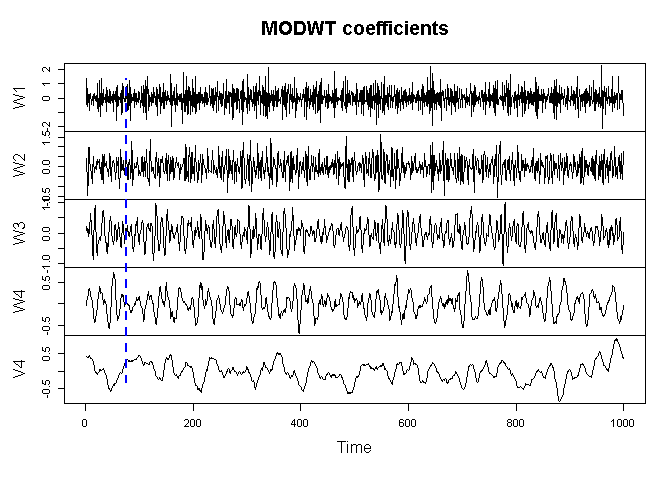
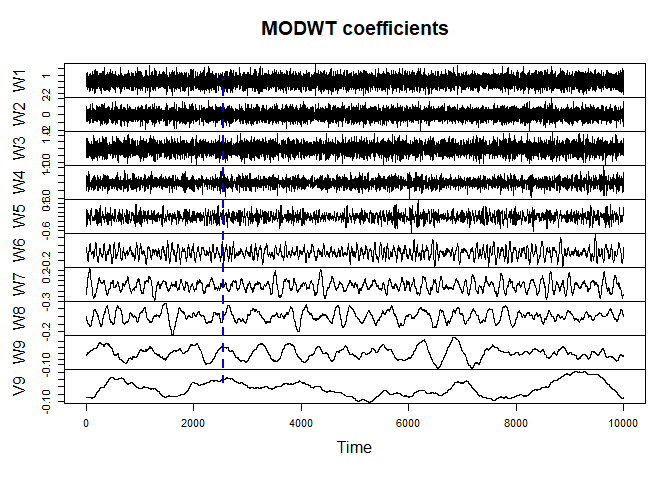
Update README

diff --git a/README.md b/README.md
@@ -36,13 +36,13 @@ library(fastWavelets)
 
 set.seed(839)                       # make this example reproducible
 
-N <- 1000                           # number of time series points
-J <- 4                              # decomposition level
-wavelet <- 'coif1'                  # scaling filter
+N <- 1e4                            # number of time series points
+J <- 9                              # decomposition level
+my.filter <- 'coif1'                # filter
 X <- matrix(rnorm(N),N,1)           # white noise
-modwt.X <- mo_dwt(X,wavelet,J)
+modwt.X <- mo_dwt(X,my.filter,J,remove_boundary_coefs=FALSE)
 colnames(modwt.X) <- c(paste0("W", 1:J), paste0("V", J))
-nbc <- n_boundary_coefs(wavelet, J) # number of boundary affected coefficients
+nbc <- n_boundary_coefs(my.filter, J) # number of boundary affected coefficients
 
 # Visualizations
 plot.ts(X, main = "White noise series", ylab="")
@@ -63,44 +63,35 @@ using the MODWT coefficients. It is often useful to view wavelet
 decomposition methods such as the MODWT as a “feature generation” or
 “feature engineering” method.
 
-## Available scaling filters
-
-For `atrous_dwt`, the set of possible values for the argument `wavelet`
-is as follows:
+Here’s how to remove the boundary coefficients:
 
 ``` r
-c("haar", "d1", "sym1", "bior1.1", "rbio1.1",
-"d2", "sym2", "d3", "sym3", "d4", "d5", "d6", "d7", "d8", "d9", "d10", "d11",
-"sym4", "sym5", "sym6", "sym7", "sym8", "sym9", "sym10",
-"coif1", "coif2", "coif3", "coif4", "coif5",
-"bior1.3", "bior1.5", "bior2.2", "bior2.4", "bior2.6", "bior2.8", "bior3.1", "bior3.3",
-"bior3.5", "bior3.7", "bior3.9", "bior4.4", "bior5.5", "bior6.8",
-"rbio1.3", "rbio1.5", "rbio2.2", "rbio2.4", "rbio2.6", "rbio2.8", "rbio3.1", "rbio3.3",
-"rbio3.5", "rbio3.7", "rbio3.9", "rbio4.4", "rbio5.5", "rbio6.8",
-"la8", "la10", "la12", "la14", "la16", "la18", "la20",
-"bl14", "bl18", "bl20",
-"fk4", "fk6", "fk8", "fk14", "fk18", "fk22",
-"b3spline", 
-"mb4.2", "mb8.2", "mb8.3", "mb8.4", "mb10.3", "mb12.3", "mb14.3", "mb16.3", "mb18.3", "mb24.3", "mb32.3", 
-"beyl", 
-"vaid", 
-"han2.3", "han3.3", "han4.5", "han5.5")
+modwt.X <- mo_dwt(X,"coif1",J,remove_boundary_coefs=TRUE)
 ```
 
-and for `mo_dwt`, the set of possible values for `wavelet` is
+## Available filters
+
+The set of possible values for the argument `filter` (see functions
+`mo_dwt()` and `atrous_dwt()`):
 
 ``` r
-c("haar", "d1", "sym1",
-"d2", "sym2", "d3", "sym3", "d4", "d5", "d6", "d7", "d8", "d9", "d10", "d11",
-"sym4", "sym5", "sym6", "sym7", "sym8", "sym9", "sym10",
-"coif1", "coif2", "coif3", "coif4", "coif5",
-"la8", "la10", "la12", "la14", "la16", "la18", "la20",
-"bl14", "bl18", "bl20",
-"fk4", "fk6", "fk8", "fk14", "fk18", "fk22",
-"mb4.2", "mb8.2", "mb8.3", "mb8.4", "mb10.3", "mb12.3", "mb14.3", "mb16.3", "mb18.3", "mb24.3", "mb32.3", 
-"beyl", 
-"vaid", 
-"han2.3", "han3.3", "han4.5", "han5.5")
+c('bl7', 'bl9', 'bl10',
+'beyl',
+'coif1', 'coif2', 'coif3', 'coif4', 'coif5',
+'db1', 'db2', 'db3', 'db4', 'db5', 'db6', 'db7', 'db8', 'db9', 'db10', 'db11', 'db12',
+'db13', 'db14', 'db15', 'db16', 'db17', 'db18', 'db19', 'db20', 'db21', 'db22', 'db23',
+'db24', 'db25', 'db26', 'db27', 'db28', 'db29', 'db30', 'db31', 'db32', 'db33',
+'db34', 'db35', 'db36', 'db37', 'db38', 'db39', 'db40', 'db41', 'db42', 'db43', 'db44', 'db45',
+'fk4', 'fk6', 'fk8', 'fk14', 'fk18', 'fk22',
+'han2_3', 'han3_3', 'han4_5', 'han5_5',
+'dmey',
+'mb4_2', 'mb8_2', 'mb8_3', 'mb8_4', 'mb10_3', 'mb12_3', 'mb14_3', 'mb16_3', 'mb18_3', 'mb24_3', 'mb32_3',
+'sym2', 'sym3', 'sym4', 'sym5', 'sym6', 'sym7', 'sym8', 'sym9', 'sym10', 'sym11', 'sym12', 'sym13', 'sym14',
+'sym15', 'sym16', 'sym17', 'sym18', 'sym19', 'sym20', 'sym21', 'sym22', 'sym23', 'sym24', 'sym25', 'sym26', 'sym27',
+'sym28', 'sym29', 'sym30', 'sym31', 'sym32', 'sym33', 'sym34', 'sym35', 'sym36', 'sym37', 'sym38', 'sym39', 'sym40',
+'sym41', 'sym42', 'sym43', 'sym44', 'sym45',
+'vaid',
+'la8', 'la10', 'la12', 'la14', 'la16', 'la18', 'la20')
 ```
 
 ## References
